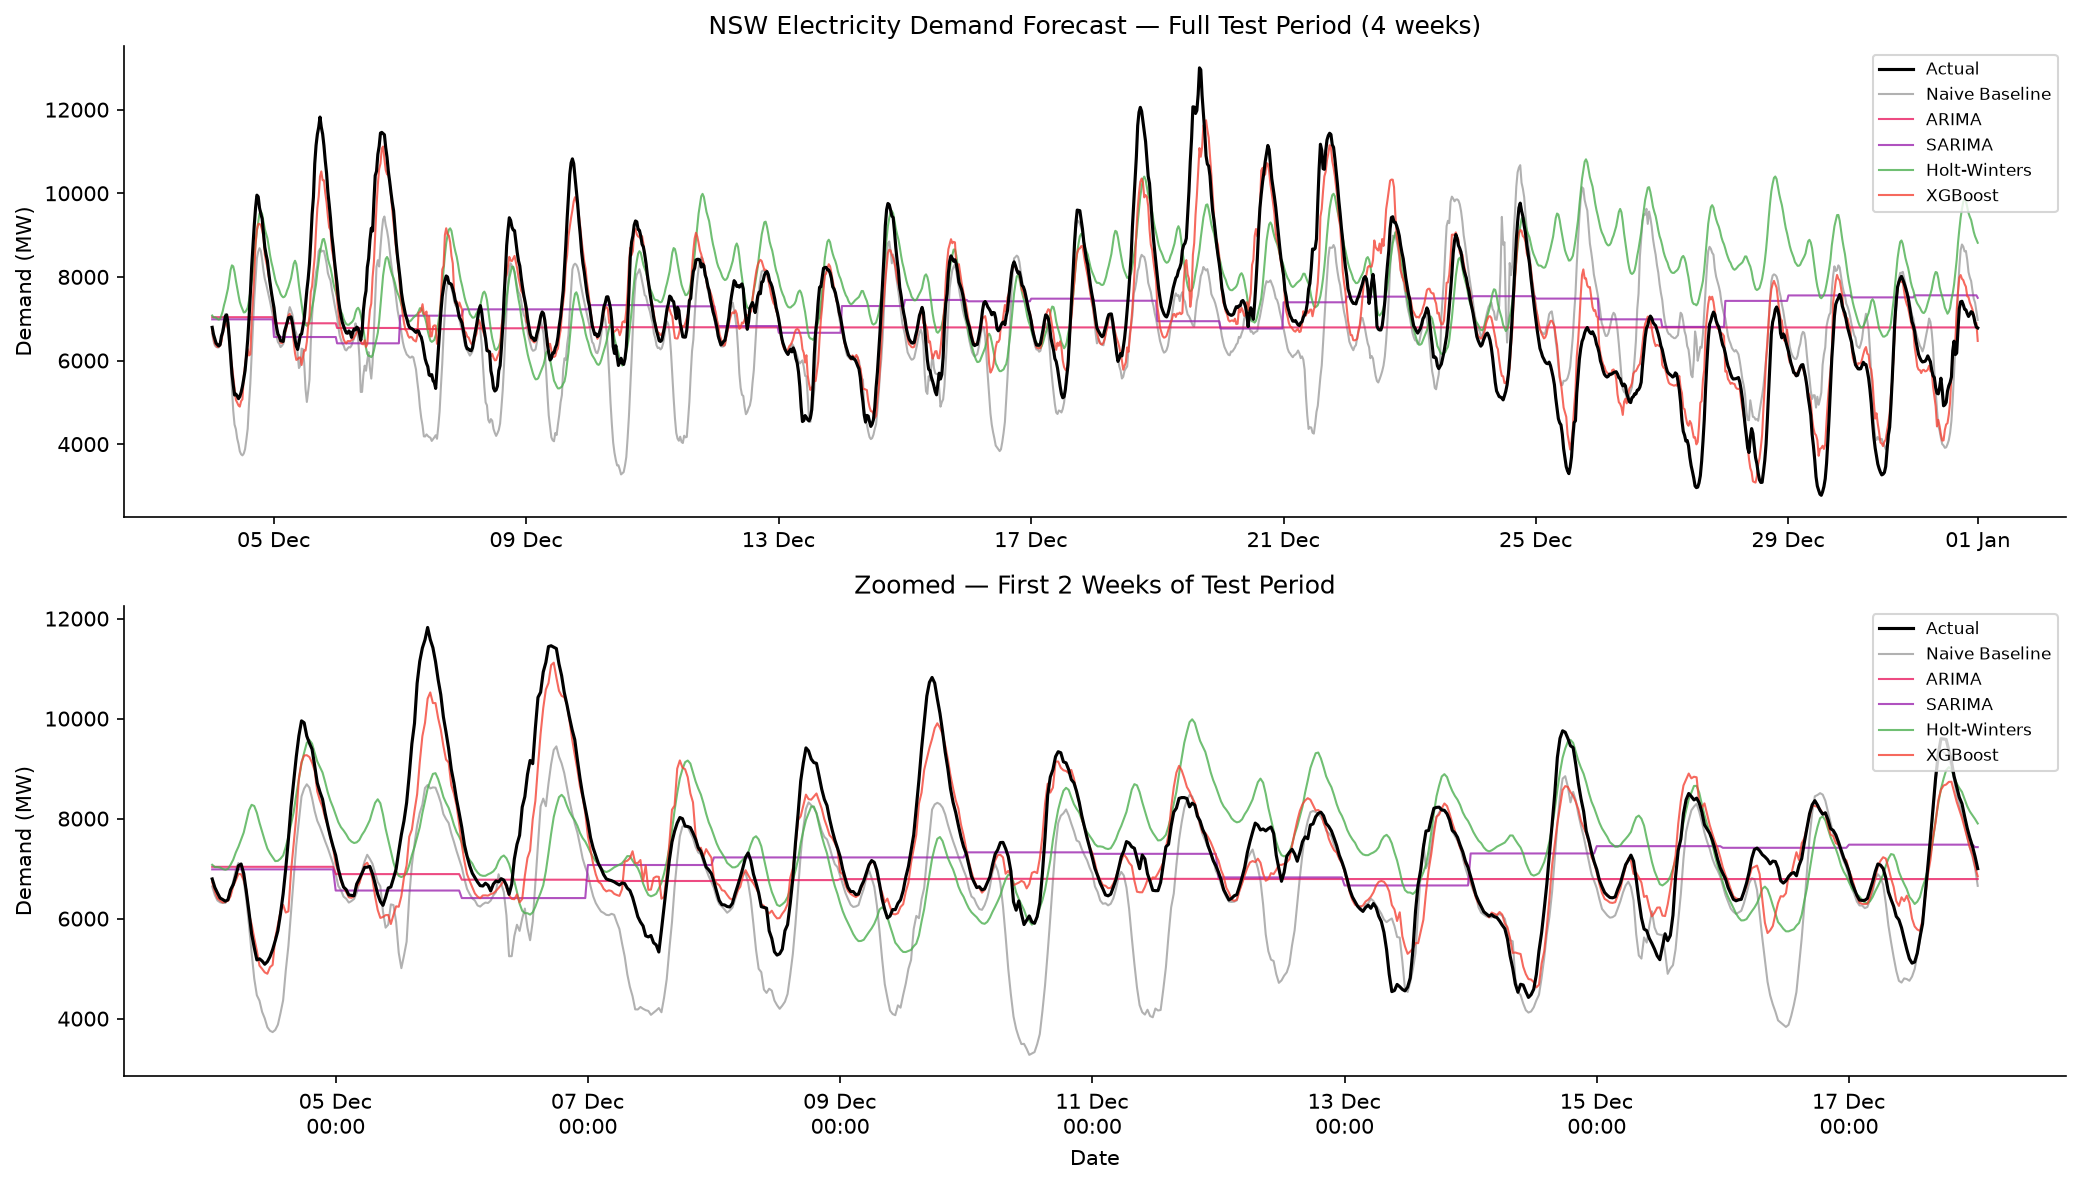
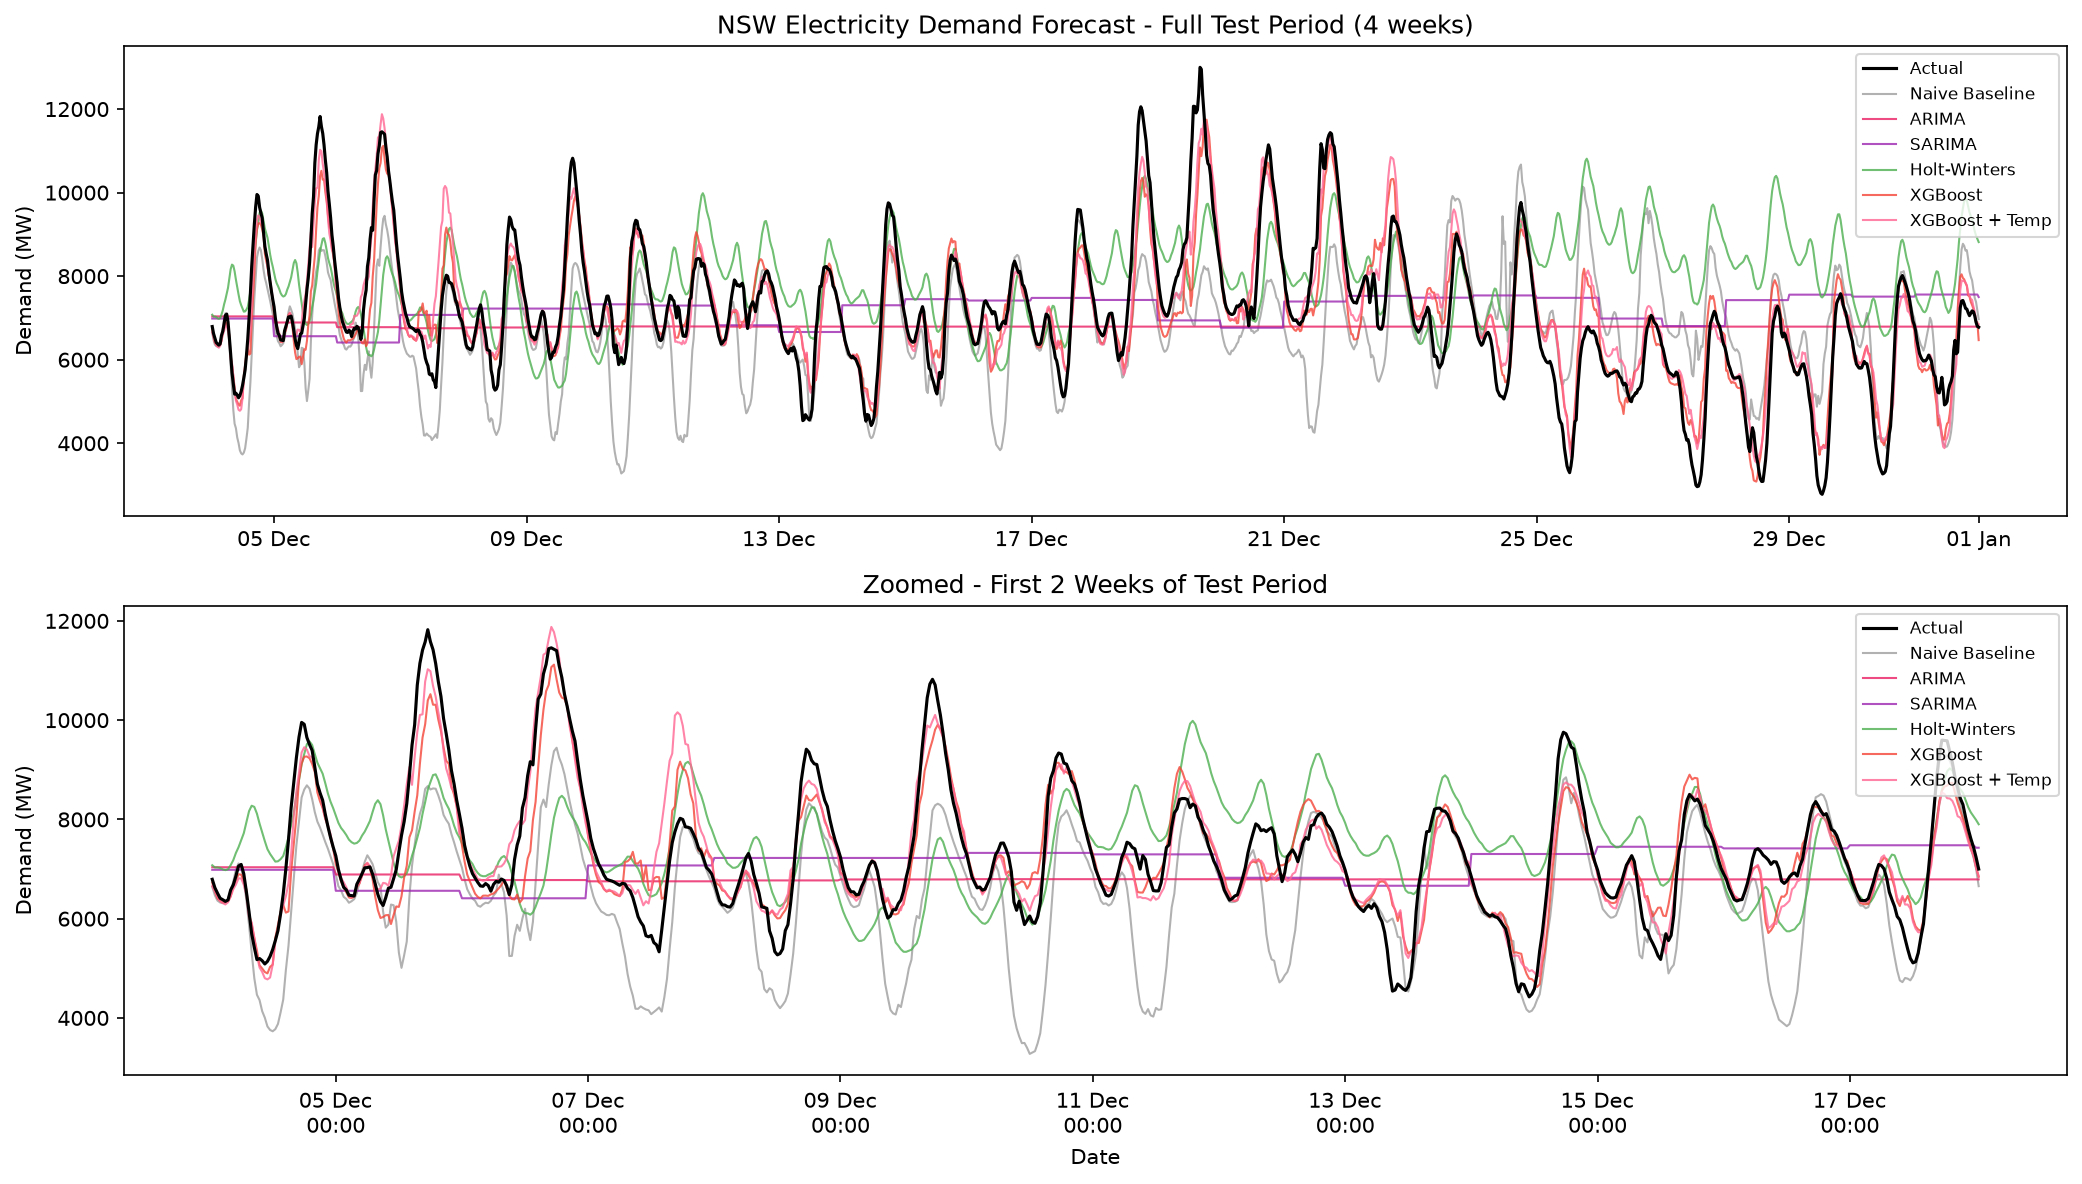
Fix em dashes in chart titles and regenerate figures
- src/utils.py: fix two em dashes in plot_forecast_vs_actual titles
- notebook: replace 115 em/en dashes across all cells (titles, markdown, print statements)
- Regenerate residual_heatmap.png, forecast_comparison.png, model_comparison.png
- model_comparison.png now includes XGBoost+Temp (was missing from previous version)
- residual_heatmap.png now uses XGBoost+Temp residuals (best model) rather than plain XGBoost

diff --git a/src/utils.py b/src/utils.py
@@ -193,7 +193,7 @@ def plot_forecast_vs_actual(
     for name, forecast in forecasts.items():
         ax.plot(forecast.index, forecast.values,
                 color=colour_map.get(name, "steelblue"), lw=1, alpha=0.8, label=name)
-    ax.set_title(f"{title} — Full Test Period ({TEST_WEEKS} weeks)")
+    ax.set_title(f"{title} - Full Test Period ({TEST_WEEKS} weeks)")
     ax.set_ylabel("Demand (MW)")
     ax.legend(loc="upper right", fontsize=8)
     ax.xaxis.set_major_formatter(mdates.DateFormatter("%d %b"))
@@ -208,7 +208,7 @@ def plot_forecast_vs_actual(
         fmask = forecast.index <= zoom_end
         ax.plot(forecast.index[fmask], forecast.values[fmask],
                 color=colour_map.get(name, "steelblue"), lw=1, alpha=0.8, label=name)
-    ax.set_title(f"Zoomed — First {zoom_weeks} Weeks of Test Period")
+    ax.set_title(f"Zoomed - First {zoom_weeks} Weeks of Test Period")
     ax.set_ylabel("Demand (MW)")
     ax.set_xlabel("Date")
     ax.legend(loc="upper right", fontsize=8)